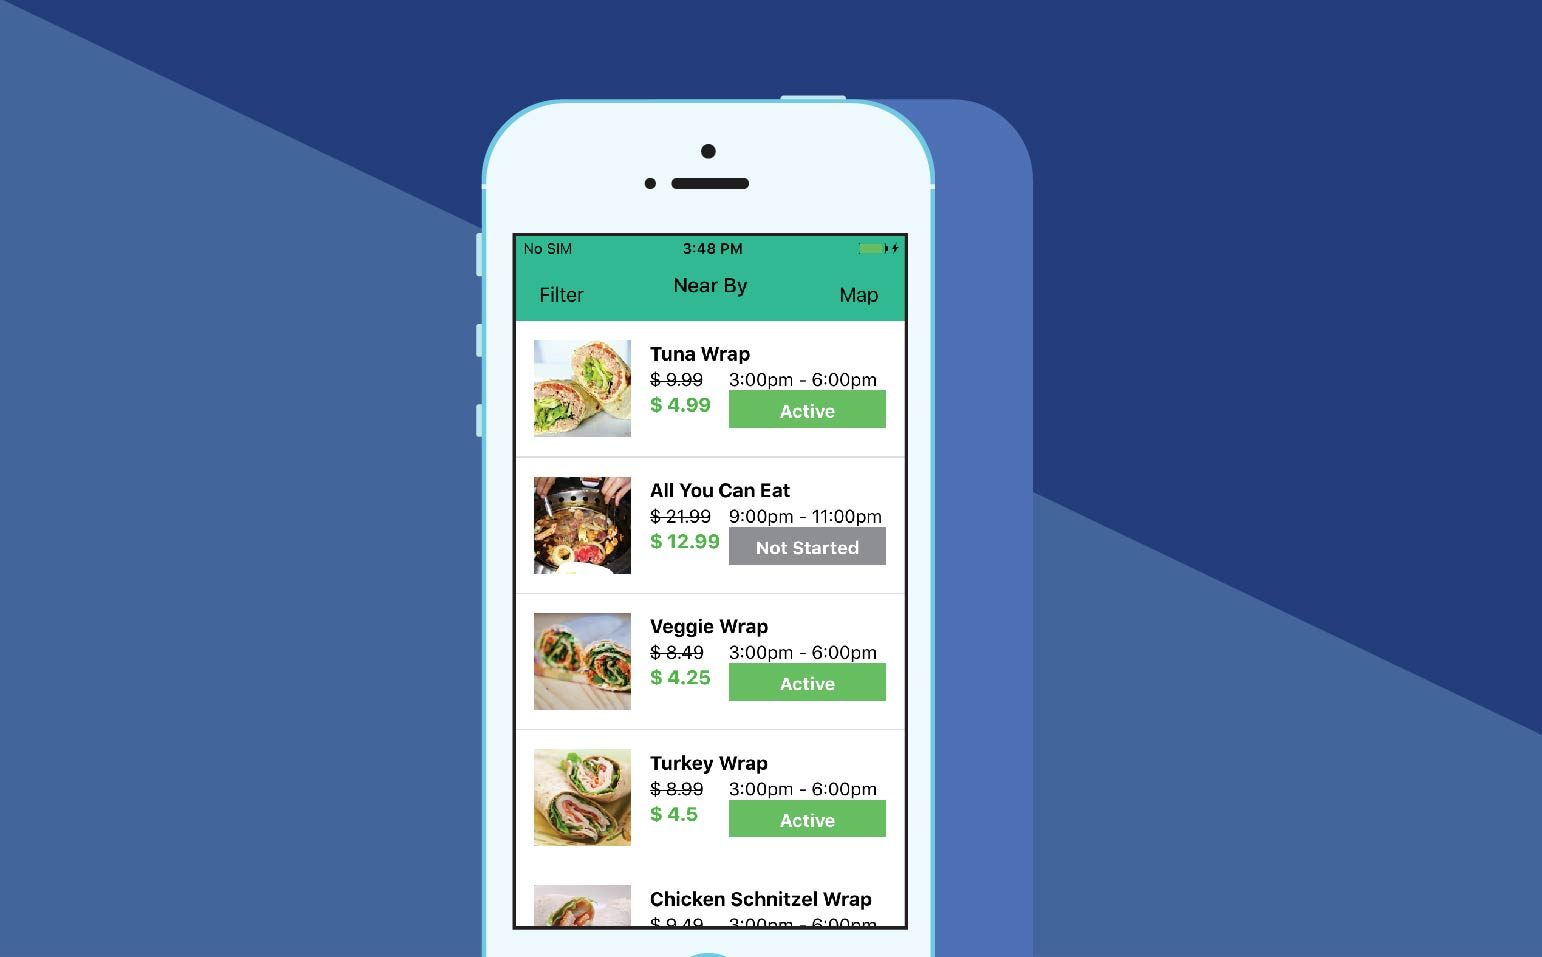
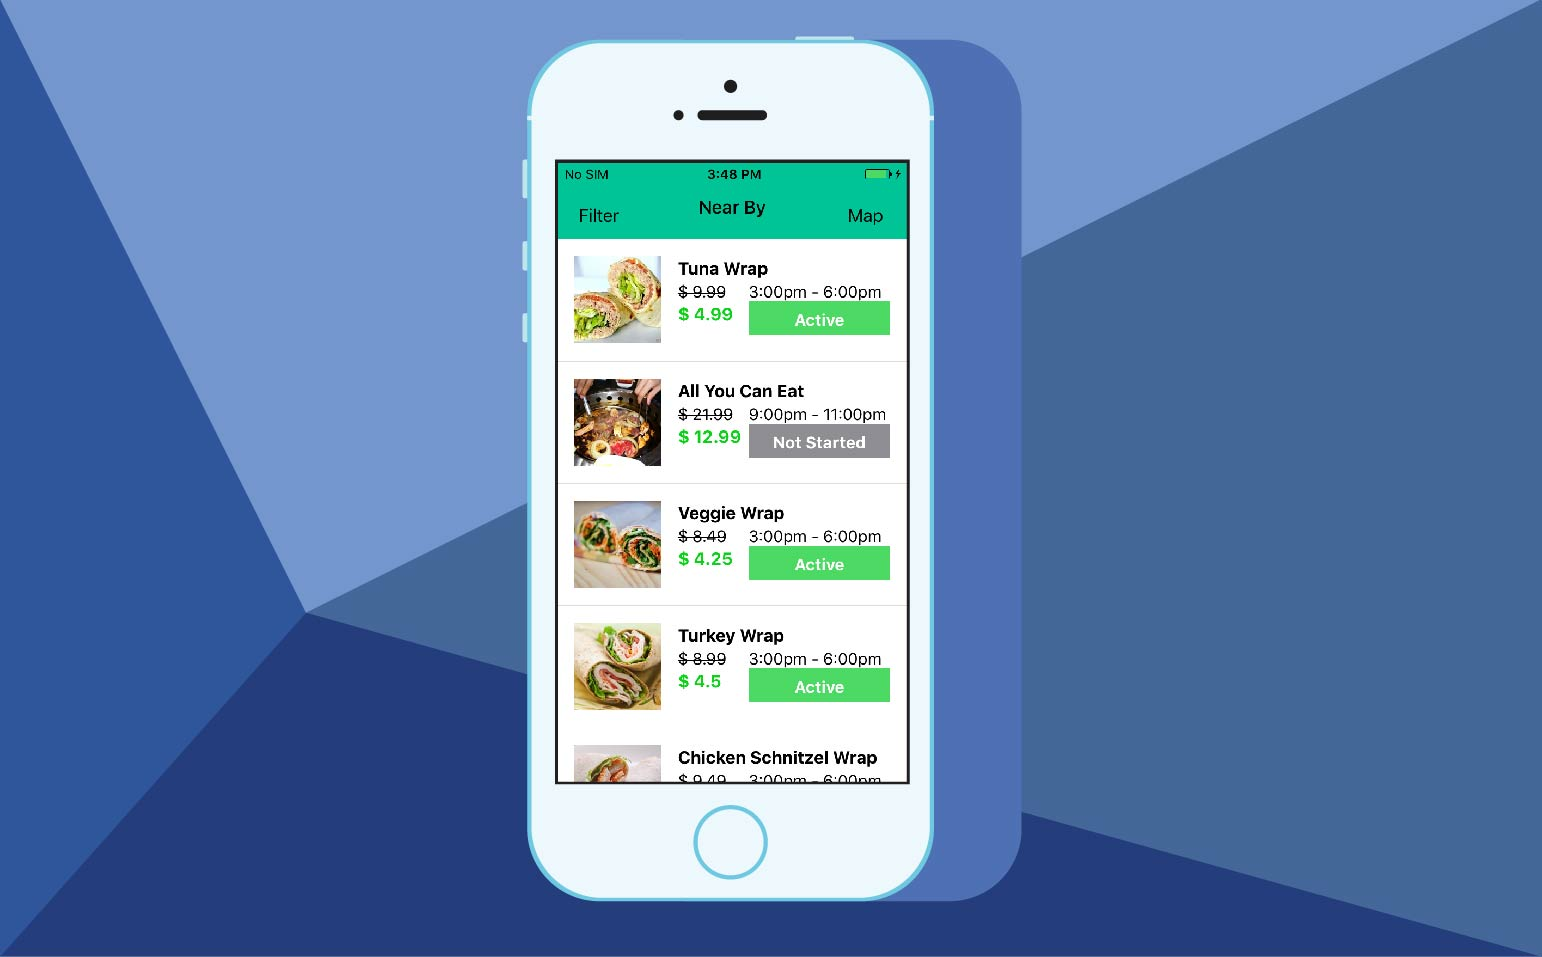
added mobile background, fixed scrolling offset

diff --git a/nightfoodie-website/public/js/index/ngScrollSmooth.js b/nightfoodie-website/public/js/index/ngScrollSmooth.js
@@ -6,11 +6,12 @@ myModule.directive('ngScrollSmooth', ['$document', function($document){
 		link: function(scope, element, attr){
 			var duration = 1500; //milliseconds
 			var offset = attr.offset;	//pixel adjustment
+			console.log(offset);
 
 			element.on('click', function(){
 				//Note: Use this in a directive, not with document.getElementById
 				var sectionElement = angular.element(document.getElementById(attr.ngScrollSmooth));
-	    		$document.scrollToElement(sectionElement, offset, duration);
+	    		$document.scrollToElement(sectionElement, parseInt(offset), duration);
 			});
 		}
 	};

diff --git a/nightfoodie-website/public/views/index/partials/homeNavbar.html b/nightfoodie-website/public/views/index/partials/homeNavbar.html
@@ -18,7 +18,10 @@
 		<div class="collapse navbar-collapse navbar-content-collapse" ng-close-menu>
 			<ul class="nav navbar-nav">
 				<li class="nav-item">
-					<a ng-scroll-smooth="aboutus">About Us</a>
+					<a ng-scroll-smooth="info0" offset="70">How It Works</a>
+				</li>
+				<li class="nav-item">
+					<a ng-scroll-smooth="partners">Partners</a>
 				</li>
 				<li class="nav-item">
 					<a ng-scroll-smooth="product">Get Started</a>

diff --git a/nightfoodie-website/public/views/index/partials/home.html b/nightfoodie-website/public/views/index/partials/home.html
@@ -21,7 +21,7 @@
 <div class="info-section-1 fade" ng-include="'views/index/partials/info1.html'" id="info1" ng-fade-in-element>
 </div>
 
-<div class="fade no-padding-bottom" ng-include="'views/index/partials/getStarted.html'" id="product" ng-fade-in-element>
+<div class="fade no-padding-bottom section-colour" ng-include="'views/index/partials/getStarted.html'" id="product" ng-fade-in-element>
 </div>
 
 <!--

diff --git a/nightfoodie-website/public/views/index/partials/info0.html b/nightfoodie-website/public/views/index/partials/info0.html
@@ -10,7 +10,7 @@
 
 <div class ="rowinfo-section-row-margin">
 	<div class ="col-md-4 info-section-content hidden-sm info-section-0-comment">
-		<h1>HELLO EVerefe</h1>
+		<h1 class ="oswald-text">DISCOVER</h1>
 		<p>how are you  Experience the exclusive restaurant </p>
 	</div>
 	<div class ="col-md-offset-4 col-md-4 col-sm-12 info-right">

diff --git a/nightfoodie-website/public/css/material-design/styles.css b/nightfoodie-website/public/css/material-design/styles.css
@@ -3,10 +3,10 @@ section{
 	padding: 100px 0;
 }
 .mobile-app-image{
-	background: url("/img/info3.jpg") fixed;
+	background: url("/img/info32.jpg");
 	background-size:cover;
-	background-position:center;
-	height:80vh;
+	
+	height:85vh;
 }
 .mobile-app-margin{
 	margin-top:20%;

diff --git a/nightfoodie-website/public/css/index/infoSection.css b/nightfoodie-website/public/css/index/infoSection.css
@@ -33,7 +33,6 @@
 	color: #000;
 }
 .info-section-0-comment{
-	margin-top:20%;
 	overflow:hidden;
 	padding-left:5%;
 }
